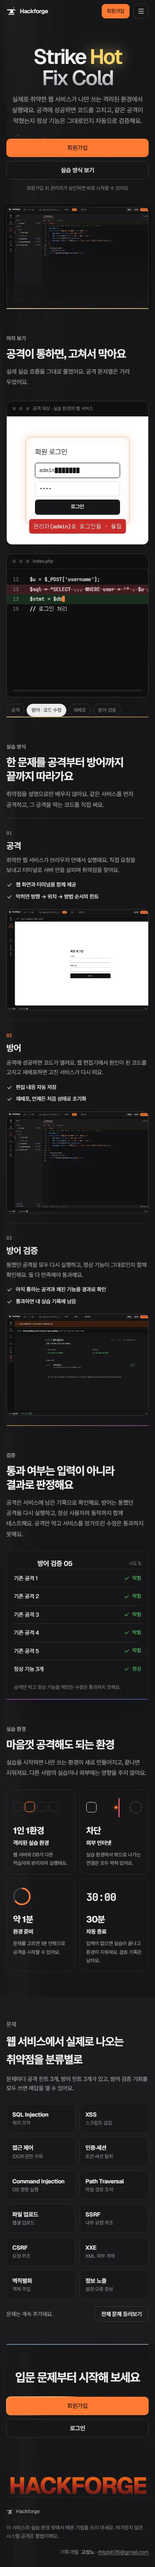
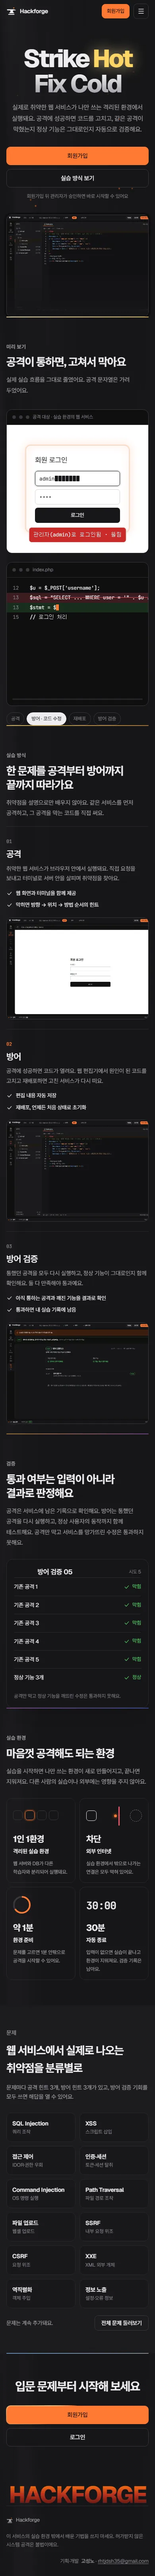
feat: 소개 화면 헤드라인을 Geist 800, 120px로 키움
후보 5개(크기 대비, 질감, 좁은·넓은 글꼴, 굵기·크기)를 같은 첫 화면에서 비교해 사람이 골랐다.

diff --git a/src/pages/landing.css b/src/pages/landing.css
@@ -77,10 +77,10 @@
 }
 .lp .hero h1 {
   font:
-    600 96px/1.02 Geist,
+    800 120px/1.02 Geist,
     Inter,
     sans-serif;
-  letter-spacing: -0.055em;
+  letter-spacing: -0.065em;
   margin: 22px 0 20px;
 }
 .lp .hero p.lead {
@@ -1539,7 +1539,7 @@
     padding-top: 56px;
   }
   .lp .hero h1 {
-    font-size: 72px;
+    font-size: 90px;
   }
   .lp .split {
     grid-template-columns: 1fr;
@@ -1570,7 +1570,7 @@
     padding-top: 40px;
   }
   .lp .hero h1 {
-    font-size: 52px;
+    font-size: 62px;
     margin: 18px 0 14px;
   }
   .lp .hero p.lead {

diff --git a/DESIGN.md b/DESIGN.md
@@ -167,7 +167,7 @@ components:
 줄바꿈은 낱말 단위다(`body`에 `word-break: keep-all`). 한글이 낱말 중간에서 끊기지 않게 한다.
 
 ### Hierarchy
-- **Display** (Geist 600, 96px → 태블릿 72px → 휴대폰 52px, 1.02): 소개 화면 헤드라인 "Strike Hot / Fix Cold"에만 쓴다.
+- **Display** (Geist 800, 120px → 태블릿 90px → 휴대폰 62px, 1.02, 자간 -0.065em. 2026-11-26 후보 5개를 같은 첫 화면에 입혀 비교해 정함): 소개 화면 헤드라인 "Strike Hot / Fix Cold"에만 쓴다.
 - **Headline** (700, 38px, 1.25): 소개 화면 구간 제목, 메인 페이지 제목(24px 600).
 - **Title** (600, 15~17px): 카드와 패널 제목.
 - **Body** (400, 14~15px, 1.6): 본문. 설명 문단은 560~640px 폭을 넘기지 않는다.
